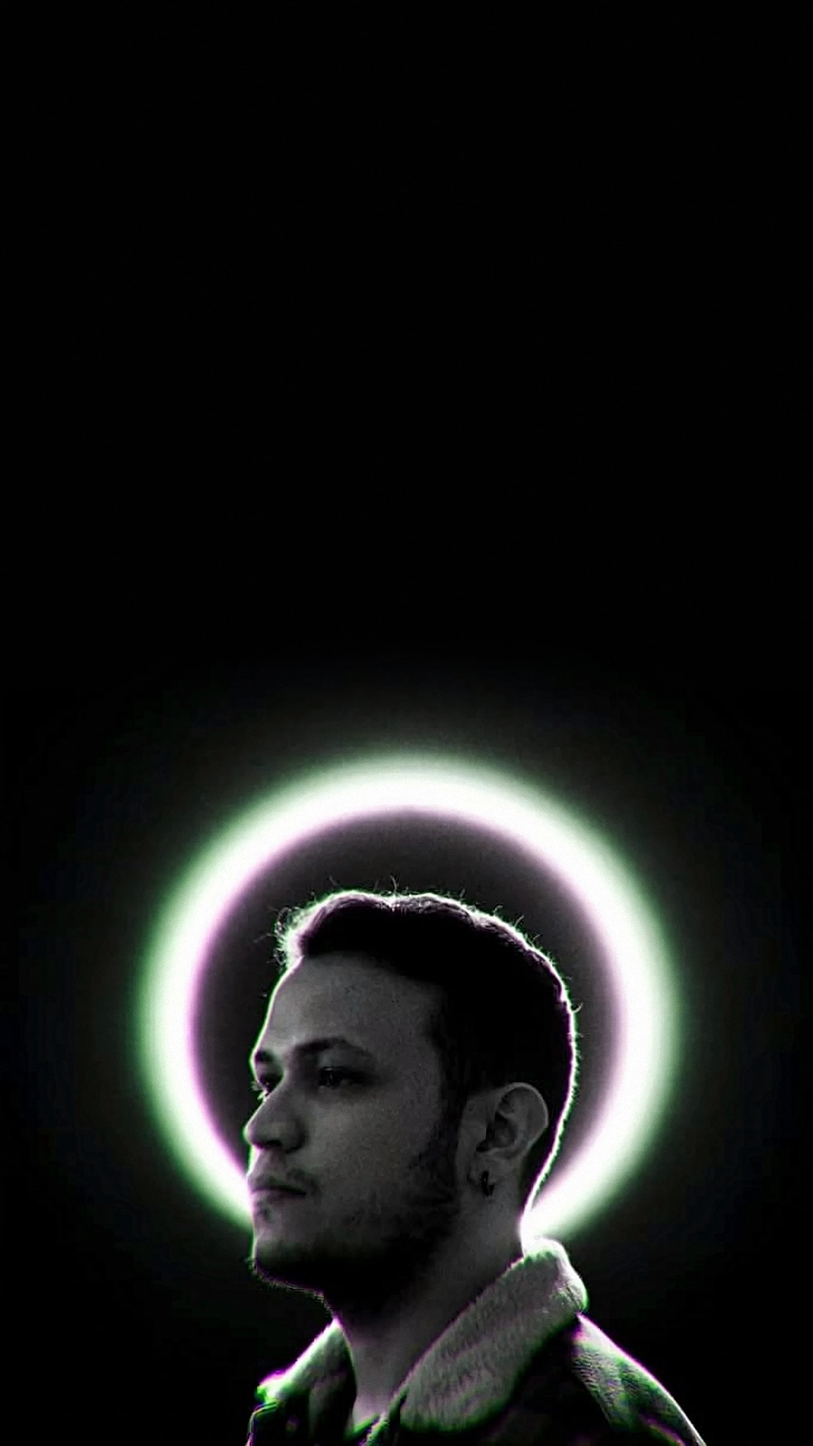
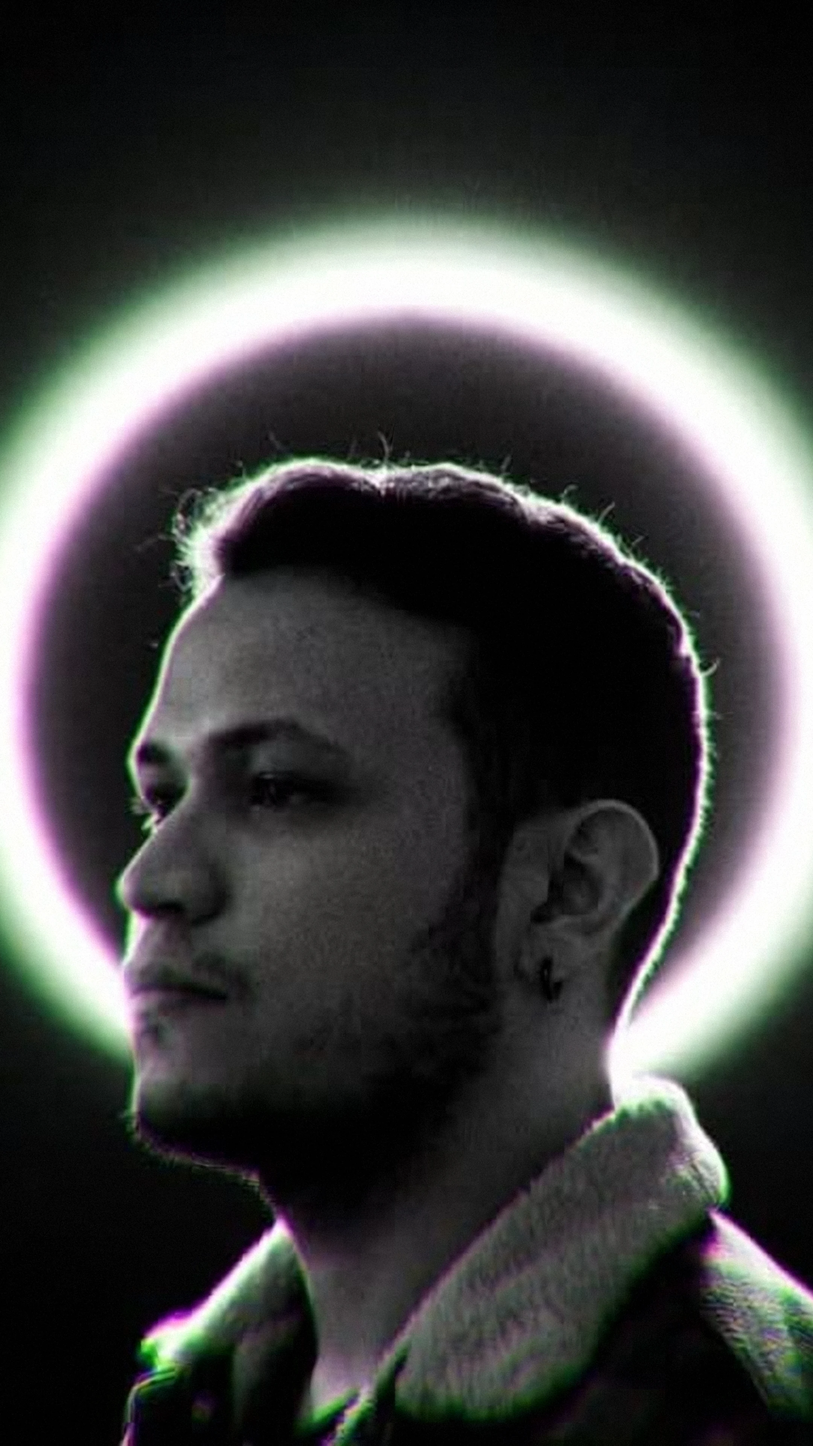
Fondo: retrato centrado con el mismo efecto de la referencia (nítido en la intro, desenfoque 4px + profundidad de campo en el escritorio); íconos vuelven a su lugar
Claude-Session: https://claude.ai/code/session_017tFmAFULZ4pk5a83H5xXTh

diff --git a/index.html b/index.html
@@ -32,9 +32,9 @@
   <link rel="apple-touch-icon" href="/apple-touch-icon.png?v=tg" />
   <link rel="manifest" href="/manifest.webmanifest" />
   <link rel="preload" href="content/data.json" as="fetch" crossorigin="anonymous" />
-  <link rel="preload" href="assets/img/wallpaper-thomas-4k.webp" as="image" fetchpriority="high" media="(min-width: 761px)" />
-  <link rel="preload" href="assets/img/wallpaper-thomas-4k-m.webp" as="image" fetchpriority="high" media="(max-width: 760px)" />
-  <link rel="stylesheet" href="css/styles.css?v=202611271600" />
+  <link rel="preload" href="assets/img/wallpaper-thomas-desk-baked.webp" as="image" fetchpriority="high" media="(min-width: 761px)" />
+  <link rel="preload" href="assets/img/wallpaper-thomas-mob-baked.webp" as="image" fetchpriority="high" media="(max-width: 760px)" />
+  <link rel="stylesheet" href="css/styles.css?v=202611271555" />
 </head>
 <body>
   <div id="wallpaper" class="wallpaper" aria-hidden="true"></div>
@@ -75,6 +75,6 @@
     </section>
   </noscript>
 
-  <script src="js/app.js?v=202611271600" defer></script>
+  <script src="js/app.js?v=202611271555" defer></script>
 </body>
 </html>

diff --git a/js/app.js b/js/app.js
@@ -1437,7 +1437,7 @@
     const stack = $("#intro-stack");
     const skipBtn = $("#skip-intro");
     skipBtn.textContent = ui("skip");
-    intro.style.backgroundImage = `url("${effectiveWallpaper()}")`;
+    intro.style.backgroundImage = `url("${wallpaperUrl()}")`; // en la intro la foto se ve nítida; al entrar queda desenfocada detrás del escritorio
     let finished = false;
     const timers = [];
     const finish = () => {
